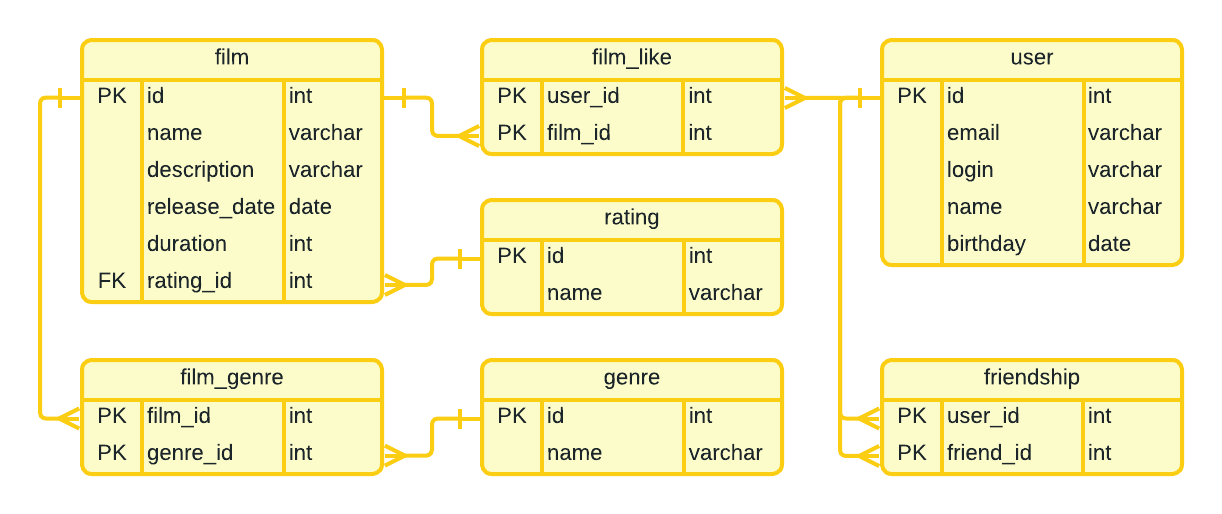
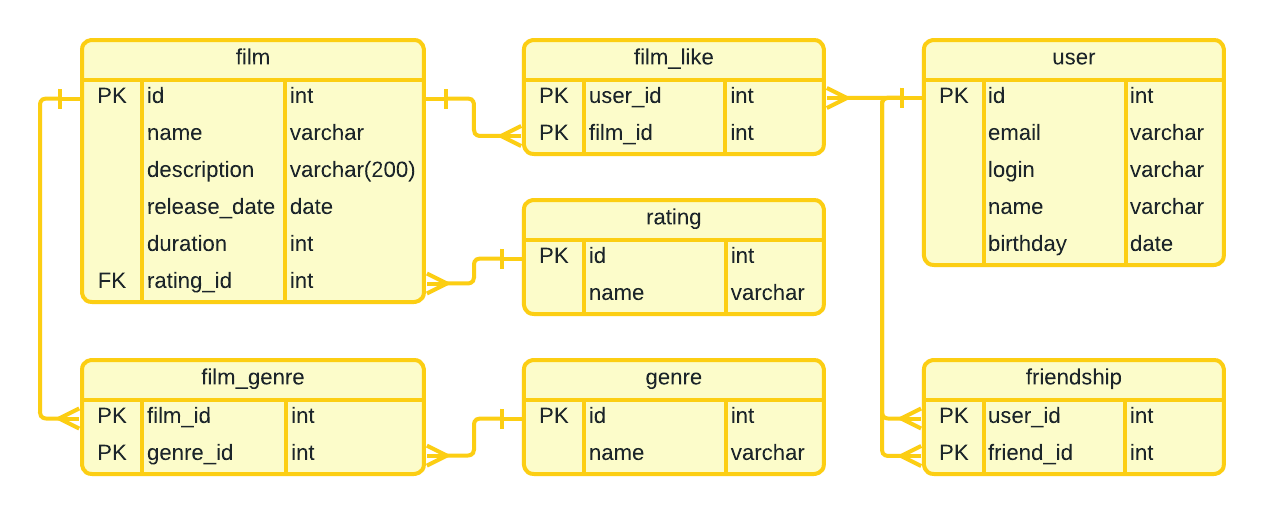
add friendship table description, add max length(200) for field film.description

diff --git a/README.md b/README.md
@@ -3,6 +3,27 @@
 ## ER-диаграмма
 ![ER-диаграмма приложения Filmorate](filmorate-er-diagram.png)
 
+### Описание таблицы friendship
+Таблица содержит информацию о подписках и друзьях пользователя. Первичным ключом является связка из идентификатора подписчика (user_id), и идентификатора пользователя, на которого он подписался (friend_id).
+
+Существует 2 статуса дружбы между двумя пользователями, в зависимости от наличия в таблице записей с определёнными идентификаторами:
+1. Подтверждённая дружба
+
+Если 2 пользователя подписаны друг на друга, то есть в таблице присутствуют 2 зеркальные записи, то такая связь являтеся подтверждённой дружбой.
+
+user_id | friend_id
+------- | ---------
+1111    | 2222
+2222    | 1111
+
+2. Неподтверждённая дружба
+
+Если запись в таблице односторонняя, то такая связь является неподтверждённой дружбой, то есть один пользователь подписан на другого.
+
+user_id | friend_id
+------- | ---------
+1111    | 2222
+
 ## Запросы для основных операций приложения
 ### 1. Film
 1.1. Получение всех фильмов - getFilms():
@@ -73,7 +94,7 @@
     DELETE FROM film_like
     WHERE user_id = <user_id> AND film_id = <film_id>;
 
-1.9. Добавления жанра фильма - addFilmGenre():
+1.9. Добавление жанра фильма - addFilmGenre():
 
     INSERT INTO film_genre (film_id, genre_id)
     VALUES (<film_id>, <genre_id>);
